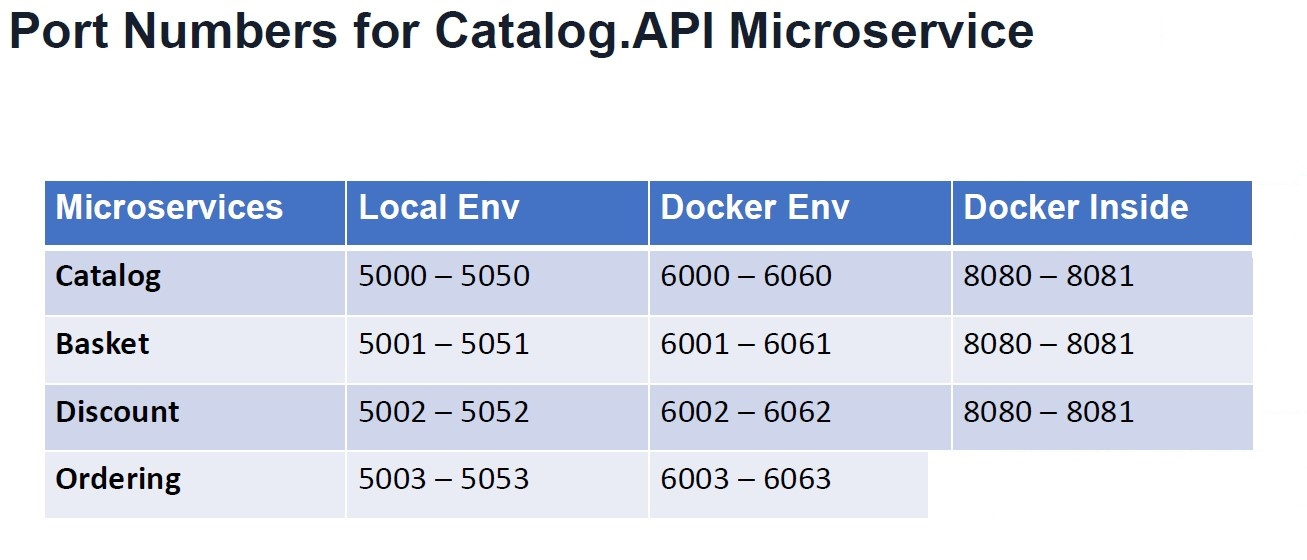
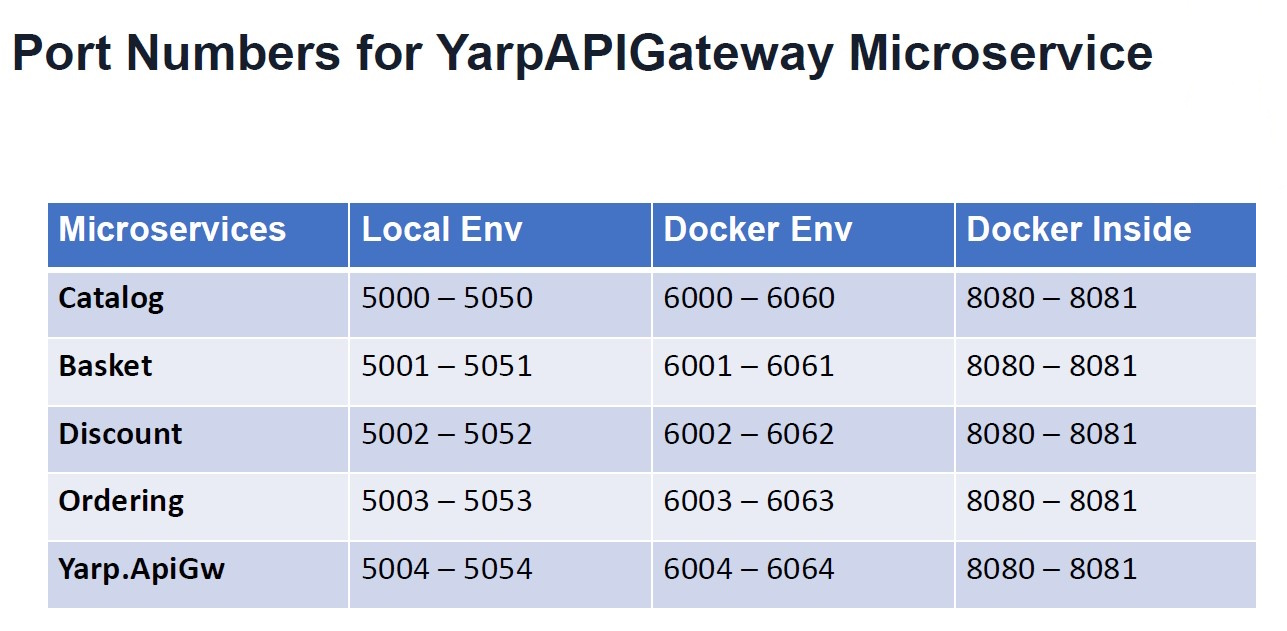
Api Gateway

diff --git a/ApiGateways/YarpApiGateway/Program.cs b/ApiGateways/YarpApiGateway/Program.cs
@@ -1,0 +1,27 @@
+using Microsoft.AspNetCore.RateLimiting;
+
+var builder = WebApplication.CreateBuilder(args);
+
+// Add services to the container.
+
+// Requiere el nuget Yarp.ReverseProxy
+builder.Services.AddReverseProxy()
+    .LoadFromConfig(builder.Configuration.GetSection("ReverseProxy"));
+
+builder.Services.AddRateLimiter(rateLimiterOptions =>
+{
+    rateLimiterOptions.AddFixedWindowLimiter("fixed", options =>
+    {
+        options.Window = TimeSpan.FromSeconds(10);
+        options.PermitLimit = 5;
+    });
+});
+
+var app = builder.Build();
+
+// Configure the HTTP request pipeline.
+app.UseRateLimiter();
+
+app.MapReverseProxy();
+
+app.Run();
